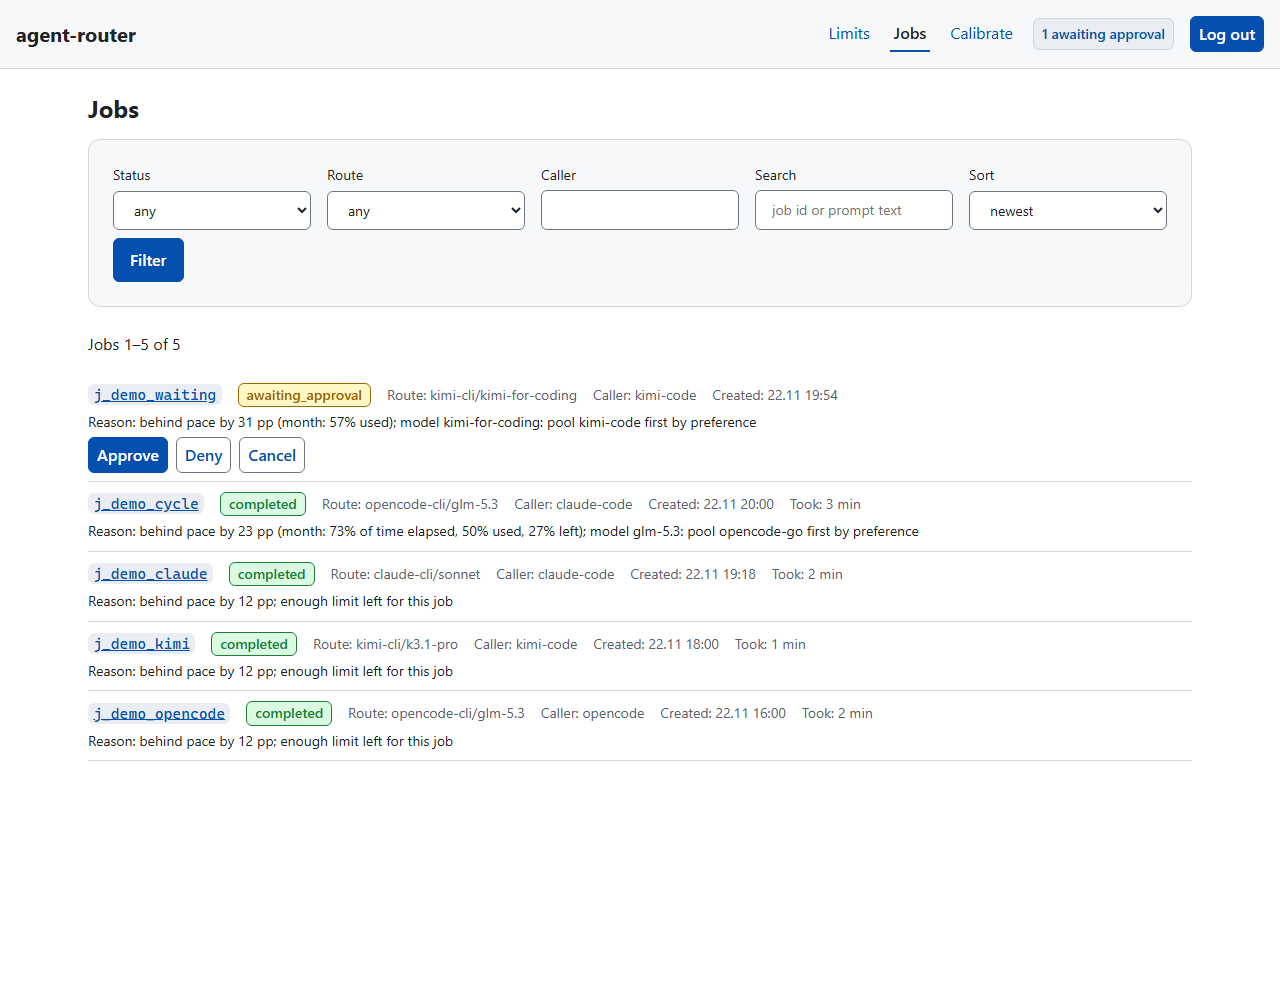
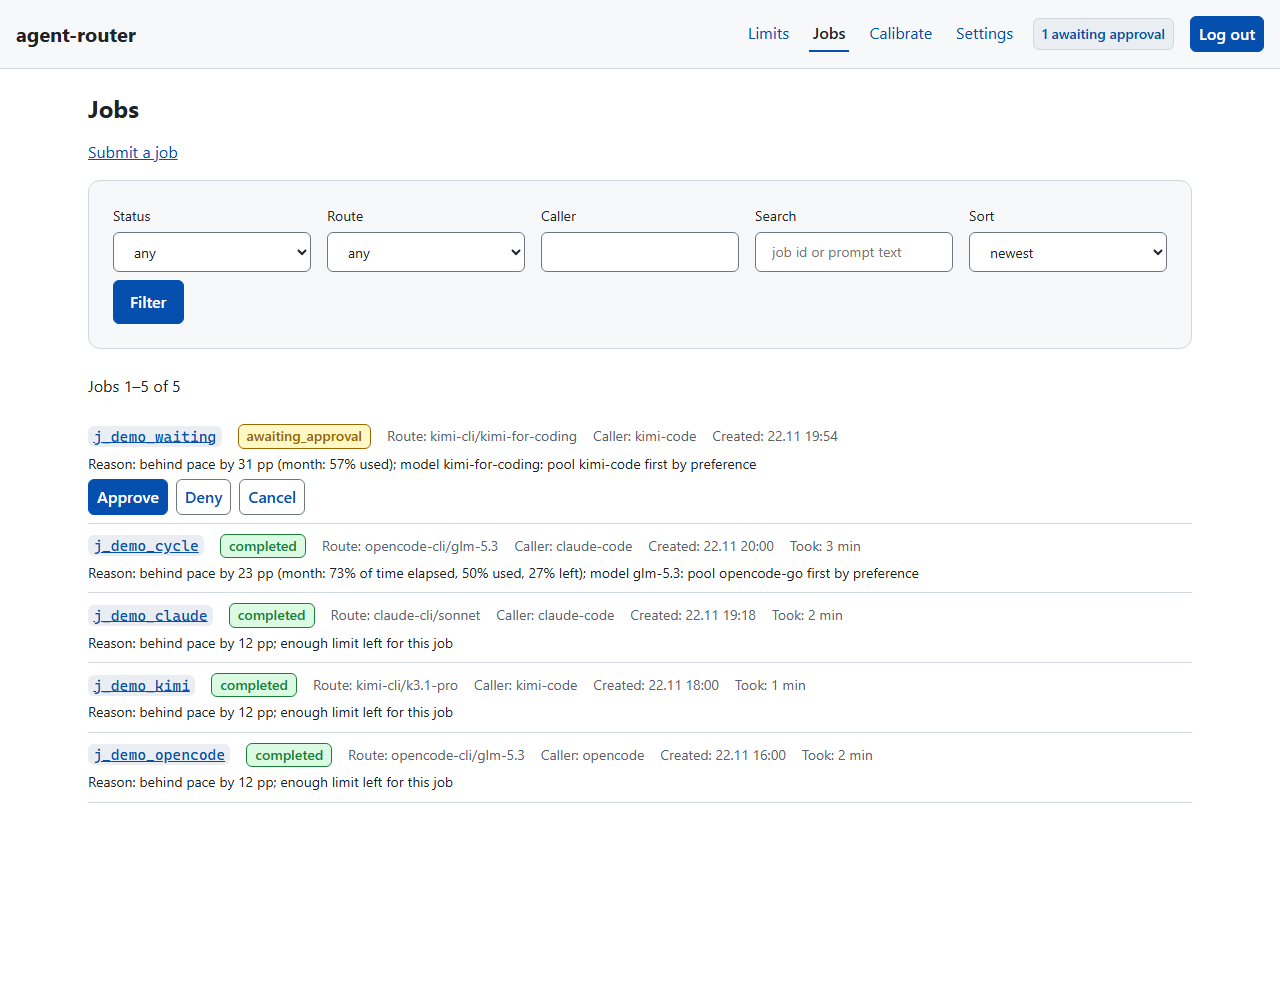
Bring README, docs and dashboard screenshots up to date
Name the Limits page as the navigation does, say which components read
configured keys, mark Claude Code as tested live, note that manual pools
are skipped by usage refresh, and retake the dashboard screenshots with
the Settings page, spend charts and the job submission link.

diff --git a/README.md b/README.md
@@ -44,7 +44,8 @@ Kimi Code, OpenCode or Cline) and an orchestrator agent that delegates jobs to o
 - **LiteLLM, OpenRouter and other API gateways** route single model requests using API keys,
   with usage billed per token. open-agent-router hands whole jobs — a prompt, a directory and
   a read or write mode — to the subscriptions you already pay for through their official CLIs,
-  and never sees provider keys.
+  and never sees provider keys for those jobs: each CLI uses its own sign-in. Optional usage
+  sources and remote classifiers read separately configured keys.
 - **Switching by hand** means checking several usage pages and guessing which limit resets
   first. The gateway keeps track of every limit window and its pace, moves a job to another
   route when a limit is hit, and keeps strong models for the jobs that need them.
@@ -170,19 +171,20 @@ in [docs/CLASSIFIER.md](https://github.com/kdenischenko/open-agent-router/blob/m
 
 <picture>
   <source media="(prefers-color-scheme: dark)" srcset="https://raw.githubusercontent.com/kdenischenko/open-agent-router/main/docs/assets/dashboard-dark.png">
-  <img src="https://raw.githubusercontent.com/kdenischenko/open-agent-router/main/docs/assets/dashboard-light.png" alt="Dashboard home page: a job awaiting approval, then pool cards showing automatic Claude Code /usage and OpenCode Go figures read two minutes ago, manual Kimi Code figures, usage bars, pace badges, reset countdowns and data age">
+  <img src="https://raw.githubusercontent.com/kdenischenko/open-agent-router/main/docs/assets/dashboard-light.png" alt="Dashboard Limits page with Settings navigation: a job awaiting approval, then pool cards showing automatic Claude Code /usage and OpenCode Go figures read two minutes ago, manual Kimi Code figures, usage bars, pace badges, reset countdowns, data age, and 24-hour and seven-day spend charts">
 </picture>
 
 The gateway also serves a dashboard at `http://127.0.0.1:<port>/` (the port is
 `server.port`, default 8787). Log in with the admin token: paste the contents of the
 `admin.token` file whose path `init` prints.
 
-- **Home** — jobs waiting for your approval come first, with Approve and Deny. Below them
+- **Limits** — jobs waiting for your approval come first, with Approve and Deny. Below them
   is one card per pool: usage, expected pace, reset countdown, data age and figure source for
   each window, including stale and blocked states, with a **Refresh limits** button for pools
-  that have a usage source. Each card also charts journal spend over the last 24 hours and
-  seven days, in USD or tokens, with the same numbers in accessible tables. The full limits
-  table stays under a disclosure, followed by the routes each tier would take right now.
+  whose usable usage source is not in `manual` mode. Each card also charts journal spend over
+  the last 24 hours and seven days, in USD or tokens, with the same numbers in accessible
+  tables. The full limits table stays under a disclosure, followed by the routes each tier
+  would take right now.
 - **Jobs** — filter by status, route and caller, search by job id or prompt text, sort by
   creation time or duration, 50 jobs per page. The filters live in the address, so a filtered
   view can be bookmarked.
@@ -205,7 +207,7 @@ The gateway also serves a dashboard at `http://127.0.0.1:<port>/` (the port is
     <td width="50%">
       <picture>
         <source media="(prefers-color-scheme: dark)" srcset="https://raw.githubusercontent.com/kdenischenko/open-agent-router/main/docs/assets/jobs-dark.png">
-        <img src="https://raw.githubusercontent.com/kdenischenko/open-agent-router/main/docs/assets/jobs-light.png" alt="Job list with filters, one job awaiting approval and finished jobs on Claude Code, Kimi Code and OpenCode routes, with status badges, callers, creation times and durations">
+        <img src="https://raw.githubusercontent.com/kdenischenko/open-agent-router/main/docs/assets/jobs-light.png" alt="Job list with a Submit a job link, filters, one job awaiting approval and finished jobs on Claude Code, Kimi Code and OpenCode routes, with status badges, callers, creation times and durations">
       </picture>
     </td>
     <td width="50%">
@@ -220,14 +222,15 @@ The gateway also serves a dashboard at `http://127.0.0.1:<port>/` (the port is
 ## Harnesses
 
 A *harness* is the coding agent CLI that does the work. The gateway runs each one with the
-sign-in you already made in it; it never sees provider keys.
+sign-in you already made in it, so harness jobs need no provider keys. Optional usage sources
+and remote classifiers read their own configured keys.
 
 | Harness | CLI command | Spend source | Status |
 |---|---|---|---|
 | Kimi Code | `kimi` | journal | tested live on Windows |
 | OpenCode | `opencode` | counter (`opencode stats`) | tested live on Windows |
 | Cline | `cline` or `cline-cli` | journal | tested live on Windows |
-| Claude Code | `claude` | journal | covered by recorded tests; live check pending |
+| Claude Code | `claude` | journal | tested live on Windows |
 
 ## Platforms
 
@@ -249,7 +252,7 @@ option.
 | `status` | Show pool usage, expected pace and window resets in local time |
 | `advice` | Show matching routes for a tier (and `--mode read` or `write`) and why the others are excluded |
 | `calibrate POOL WINDOW PERCENT` | Record the usage your subscription shows; `--resets-at` or `--resets-in 10d` sets the reset of a fixed window, a rolling window takes none (admin token) |
-| `usage refresh [POOL]` | Read the usage sources now and record what they report; without a pool every pool with a source is read, a pool read within the last 60 s is skipped (admin token) |
+| `usage refresh [POOL]` | Read the usage sources now and record what they report; without a pool every pool with a source outside `manual` mode is read, and a pool read within the last 60 s is skipped (admin token) |
 | `unblock POOL` | Remove a pool block set after a limit hit (admin token) |
 | `run [TEXT]` | Submit a job and wait up to 100 s; `--no-wait` prints the job id, `-` reads the prompt from stdin |
 | `wait JOB_ID` | Wait for a job and print its result; retries for up to 10 s while the gateway restarts |

diff --git a/docs/DESIGN.md b/docs/DESIGN.md
@@ -396,7 +396,7 @@ Tokens are files `client.token` / `admin.token` in the gateway home, created by 
 `serve`) with owner-only permissions where the OS supports them. The dashboard (`web.py`, Jinja2, no
 frontend build) logs in with the admin token and sets a signed `ar_session` cookie (HMAC keyed from
 the admin token, revocable via a settings epoch); every POST form carries a per-session CSRF token.
-Pages: an approvals inbox on the home page; limits cards with usage bars, pacing, reset
+Pages: an approvals inbox on the Limits page; limits cards with usage bars, pacing, reset
 countdowns, data age, stale and blocked states, pool unblock forms and a collapsible table;
 advice; jobs with approve/deny/cancel; calibration form. Calibration re-renders submitted
 values with field errors, enhances the form with inline validation and a usage/reset preview,

diff --git a/docs/INSTALL.md b/docs/INSTALL.md
@@ -21,8 +21,9 @@ been checked live there.
 | Cline CLI | `cline` or `cline-cli` | `cline auth <provider>` sets the provider (OpenCode Go here), key and model; see the [official Cline CLI documentation](https://docs.cline.bot/usage/cli-overview) | `opencode-go` |
 | Claude Code | `claude` | Sign in with a subscription | `claude-pro` |
 
-Check that each command responds to `--version`. The gateway does not store or pass keys. It starts
-harnesses, and they access models using their own authentication.
+Check that each command responds to `--version`. Harness jobs need no provider keys in the
+gateway: it starts harnesses, and they access models using their own authentication. Optional
+usage sources and remote classifiers read their own keys from configured environment variables.
 
 ## 1. Download and build
 
